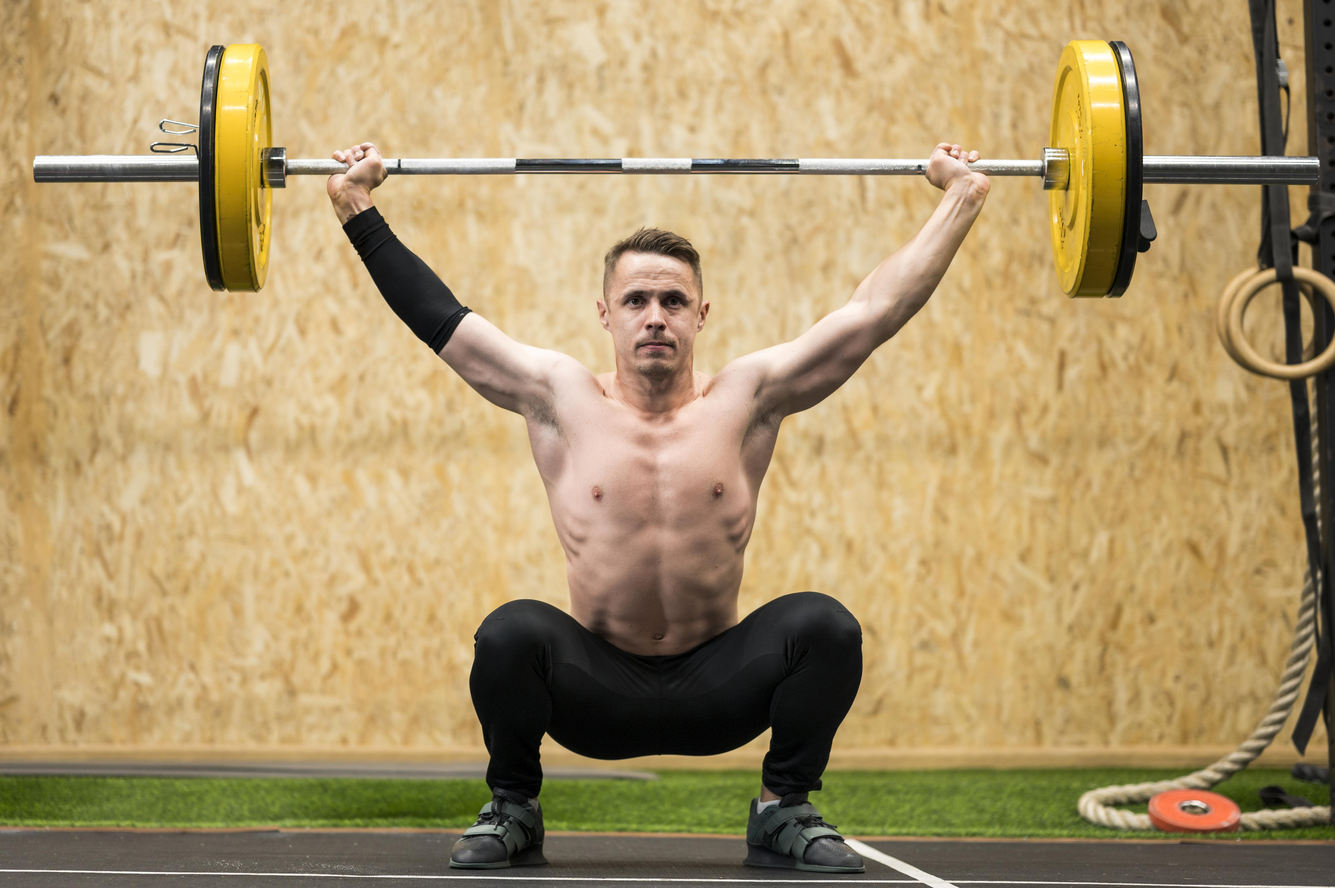
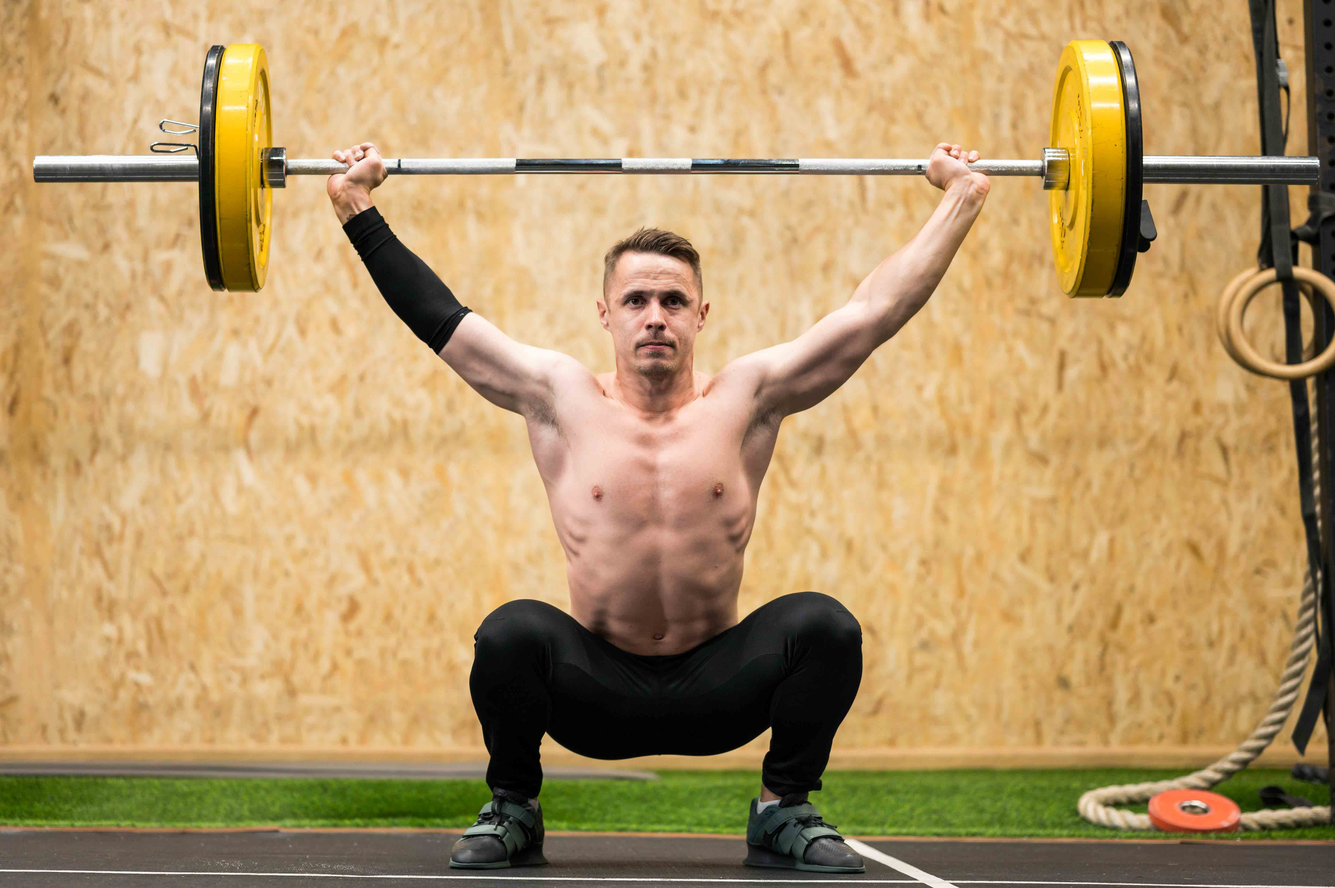
images optimized

diff --git a/src/components/PhotoGallery.tsx b/src/components/PhotoGallery.tsx
@@ -12,30 +12,30 @@ import {
 } from "@mui/material";
 import { motion, AnimatePresence } from "framer-motion";
 
-import foto1 from "../../public/IMG_5983.jpeg";
-import foto2 from "../../public/IMG_5991.jpeg";
-import foto3 from "../../public/IMG_5993.jpeg";
-import foto4 from "../../public/IMG_5996.jpeg";
-import foto5 from "../../public/IMG_5997.jpeg";
-import foto6 from "../../public/IMG_7976.jpeg";
-import foto7 from "../../public/IMG_8210.jpeg";
-import foto8 from "../../public/IMG_8213.jpeg";
-import foto9 from "../../public/IMG_8214.jpeg";
-import foto10 from "../../public/IMG_8215.jpeg";
-import foto11 from "../../public/IMG_8216.jpeg";
-import foto12 from "../../public/IMG_8217.jpeg";
-import foto13 from "../../public/IMG_8218.jpeg";
-import foto14 from "../../public/IMG_8219.jpeg";
-import foto15 from "../../public/IMG_8220.jpeg";
-import foto16 from "../../public/IMG_8221.jpeg";
-import foto17 from "../../public/IMG_8222.jpeg";
-import foto18 from "../../public/IMG_8223.jpeg";
-import foto19 from "../../public/IMG_8224.jpeg";
-import foto20 from "../../public/IMG_8225.jpeg";
-import foto21 from "../../public/IMG_8226.jpeg";
-import foto22 from "../../public/IMG_8227.jpeg";
-import foto23 from "../../public/IMG_8228.jpeg";
-import foto24 from "../../public/IMG_8229.jpeg";
+import foto1 from "../../public/IMG_5983.jpg";
+import foto2 from "../../public/IMG_5991.jpg";
+import foto3 from "../../public/IMG_5993.jpg";
+import foto4 from "../../public/IMG_5996.jpg";
+import foto5 from "../../public/IMG_5997.jpg";
+import foto6 from "../../public/IMG_7976.jpg";
+import foto7 from "../../public/IMG_8210.jpg";
+import foto8 from "../../public/IMG_8213.jpg";
+import foto9 from "../../public/IMG_8214.jpg";
+import foto10 from "../../public/IMG_8215.jpg";
+import foto11 from "../../public/IMG_8216.jpg";
+import foto12 from "../../public/IMG_8217.jpg";
+import foto13 from "../../public/IMG_8218.jpg";
+import foto14 from "../../public/IMG_8219.jpg";
+import foto15 from "../../public/IMG_8220.jpg";
+import foto16 from "../../public/IMG_8221.jpg";
+import foto17 from "../../public/IMG_8222.jpg";
+import foto18 from "../../public/IMG_8223.jpg";
+import foto19 from "../../public/IMG_8224.jpg";
+import foto20 from "../../public/IMG_8225.jpg";
+import foto21 from "../../public/IMG_8226.jpg";
+import foto22 from "../../public/IMG_8227.jpg";
+import foto23 from "../../public/IMG_8228.jpg";
+import foto24 from "../../public/IMG_8229.jpg";
 import { useState } from "react";
 import ScrollAnimation from "./ScrollAnimation";
 
@@ -125,7 +125,7 @@ const PhotoGallery = () => {
               initial={{ opacity: 0, y: 50 }}
               animate={{ opacity: 1, y: 0 }}
               transition={{ duration: 0.2, ease: "easeInOut" }}
-              delay={index * 0.1} 
+              delay={index * 0.1}
             >
               <ImageListItem
                 onClick={() => setSelectedPhoto(photo)}
